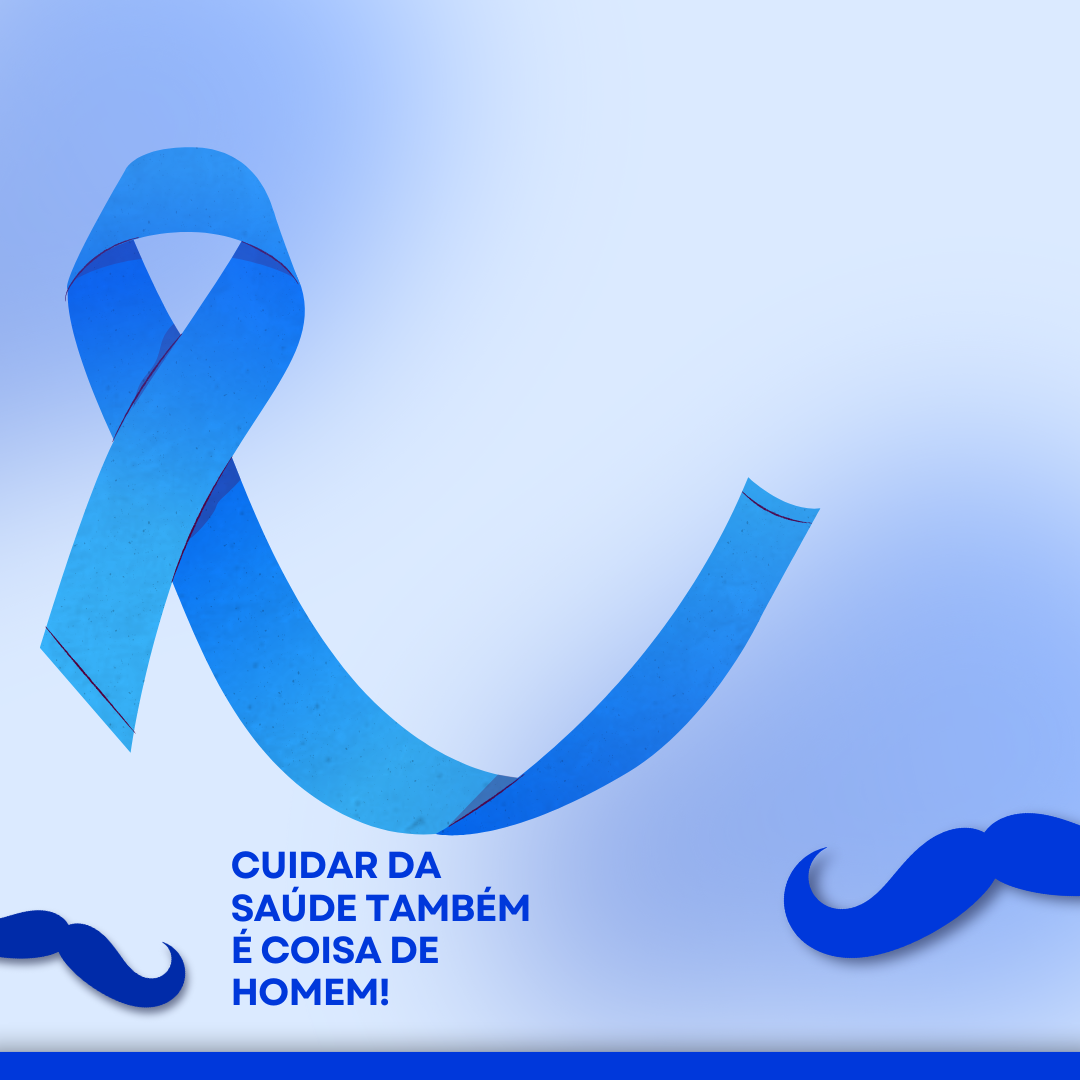
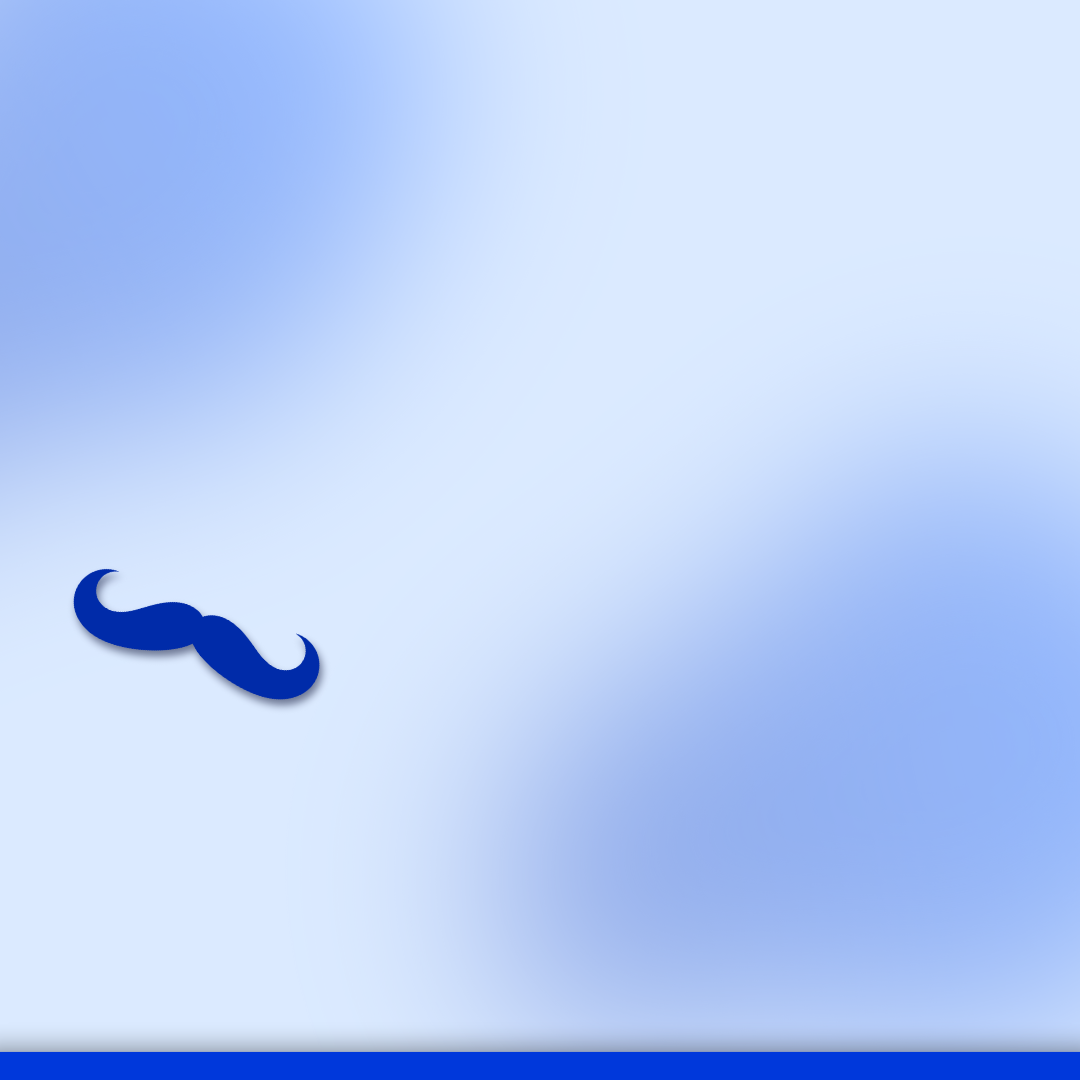
Atualização de previews, backgrounds e overlays.

Changed region(s): [[0.0306, 0.1222, 0.7639, 0.9472], [0.7028, 0.7333, 1.0, 0.9167], [0.0, 0.825, 0.1833, 0.9472]]

diff --git a/frontend/themes-config.js b/frontend/themes-config.js
@@ -151,6 +151,86 @@ const THEMES = {
         }
     },
 
+    natal: {
+        id: 'natal',
+        name: 'Natal',
+        emoji: '🎄',
+        background: 'assets/themes/natal/background.png',
+        overlay: 'assets/themes/natal/overlay.png',
+        preview: 'assets/themes/natal/preview.jpg',
+        colors: {
+            primary: '#F25E39',
+            secondary: '#F25E39',
+            gradient: 'linear-gradient(135deg, #FFFFFF 0%, #F0F0F0 100%)'
+        },
+        description: 'Tema minimalista natalino',
+        featured: false,
+        available: {
+            start: '12-01', // 1º de outubro
+            end: '12-31'    // 31 de outubro
+        }
+    },
+
+    ano_novo: {
+        id: 'ano_novo',
+        name: 'Ano Novo',
+        emoji: '✨',
+        background: 'assets/themes/ano_novo/background.png',
+        overlay: 'assets/themes/ano_novo/overlay.png',
+        preview: 'assets/themes/ano_novo/preview.jpg',
+        colors: {
+            primary: '#F25E39',
+            secondary: '#F25E39',
+            gradient: 'linear-gradient(135deg, #FFFFFF 0%, #F0F0F0 100%)'
+        },
+        description: 'Tema minimalista de ano novo',
+        featured: false,
+        available: {
+            start: '12-01', // 1º de outubro
+            end: '12-31'    // 31 de outubro
+        }
+    },
+
+    novembro_azul: {
+        id: 'novembro_azul',
+        name: 'Novembro Azul',
+        emoji: '💙',
+        background: 'assets/themes/novembro_azul/background.png',
+        overlay: 'assets/themes/novembro_azul/overlay.png',
+        preview: 'assets/themes/novembro_azul/preview.jpg',
+        colors: {
+            primary: '#F25E39',
+            secondary: '#F25E39',
+            gradient: 'linear-gradient(135deg, #FFFFFF 0%, #F0F0F0 100%)'
+        },
+        description: 'Tema minimalista do novembro azul',
+        featured: false,
+        available: {
+            start: '11-01', // 1º de outubro
+            end: '11-30'    // 31 de outubro
+        }
+    },
+
+    consciencia_negra: {
+        id: 'consciencia_negra',
+        name: 'Consciencia Negra',
+        emoji: '✊🏿',
+        background: 'assets/themes/consciencia_negra/background.png',
+        overlay: 'assets/themes/consciencia_negra/overlay.png',
+        preview: 'assets/themes/consciencia_negra/preview.jpg',
+        colors: {
+            primary: '#F25E39',
+            secondary: '#F25E39',
+            gradient: 'linear-gradient(135deg, #FFFFFF 0%, #F0F0F0 100%)'
+        },
+        description: 'Tema minimalista do novembro azul',
+        featured: false,
+        available: {
+            start: '11-01', // 1º de outubro
+            end: '11-30'    // 31 de outubro
+        }
+    },
+
     brasil: {
         id: 'brasil',
         name: 'Brasil',
